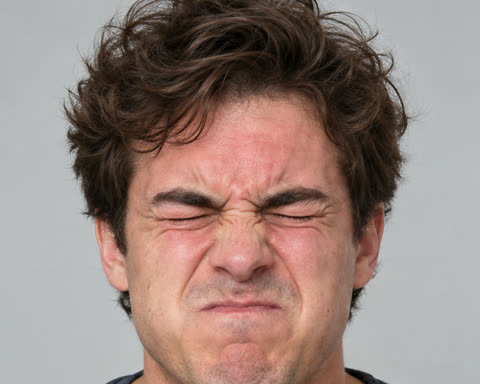
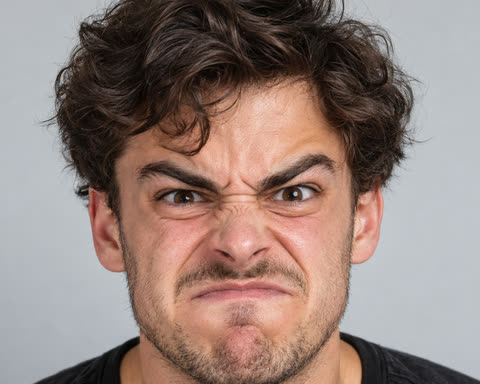
Calibration example: squint with eyes open, not closed
The strain example photo had the eyes shut, which told players to close
their eyes. Replace it with a squint that keeps the eyes visibly open, and
say so in the hint.

diff --git a/src/assets/CREDITS.md b/src/assets/CREDITS.md
@@ -60,4 +60,4 @@ The pictures in this folder are cut out of (or cropped from) photos on Wikimedia
 | `walker5.png` | [Jogging towards Willoughby on the Wolds - geograph.org.uk - 3606681.jpg](https://commons.wikimedia.org/wiki/File%3AJogging_towards_Willoughby_on_the_Wolds_-_geograph.org.uk_-_3606681.jpg) | JThomas | [CC BY-SA 2.0](https://creativecommons.org/licenses/by-sa/2.0/) |
 | `fish-deflated.png`, `fish-puffed.png` | Supplied by the project owner | — | Check before publishing |
 
-`calib-strained.jpg` and `calib-puffed.jpg` (the calibration screen's example faces) are AI-generated (not a real person), cropped from one two-panel image.
+`calib-strained.jpg` and `calib-puffed.jpg` (the calibration screen's example faces) are AI-generated (not a real person); `calib-puffed.jpg` was cropped from a two-panel image, `calib-strained.jpg` was regenerated on its own (eyes open).
